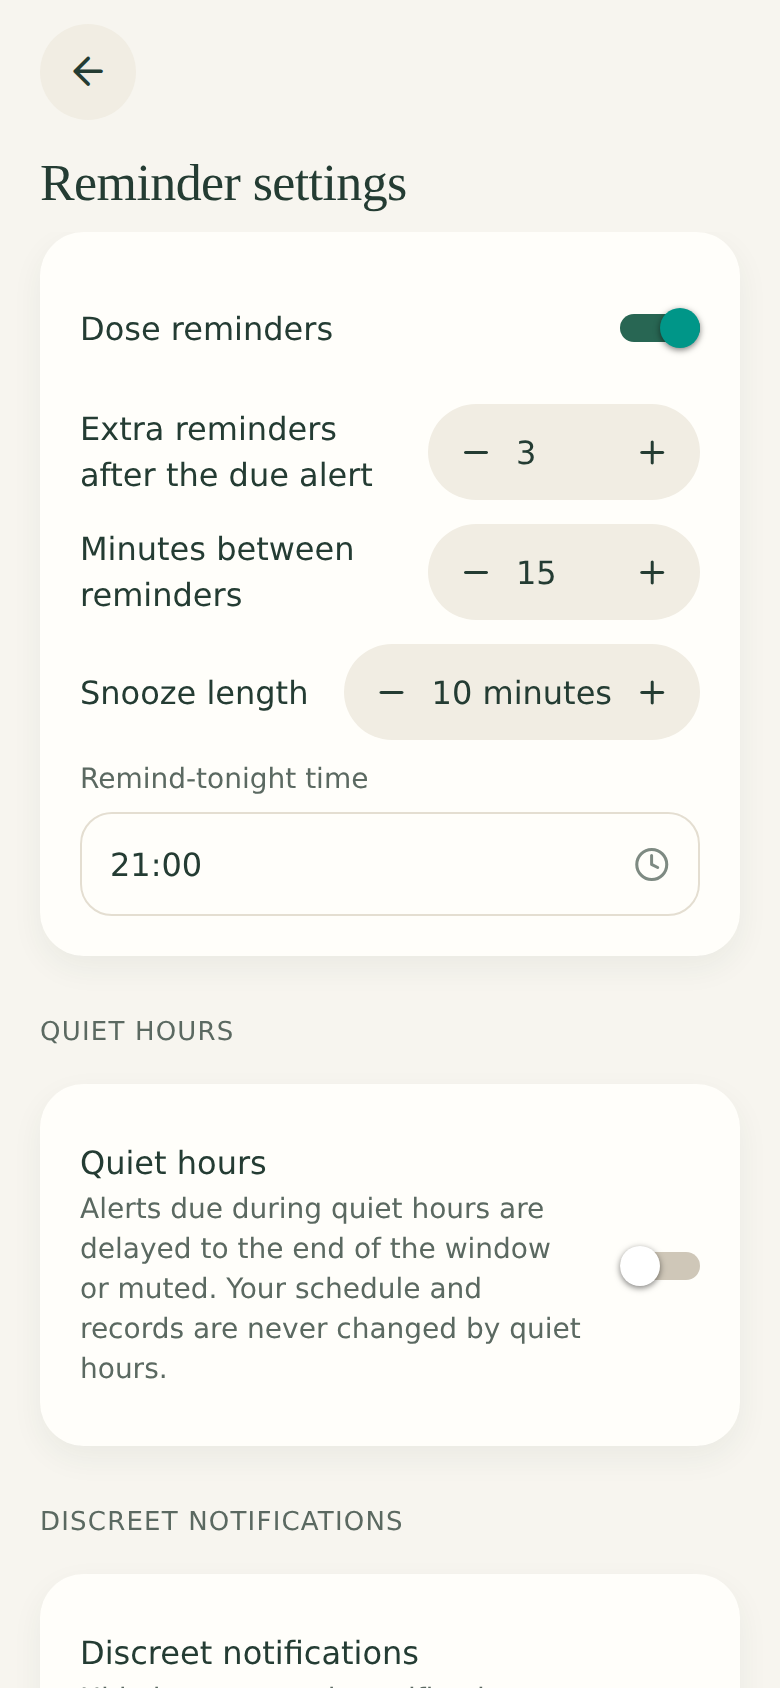
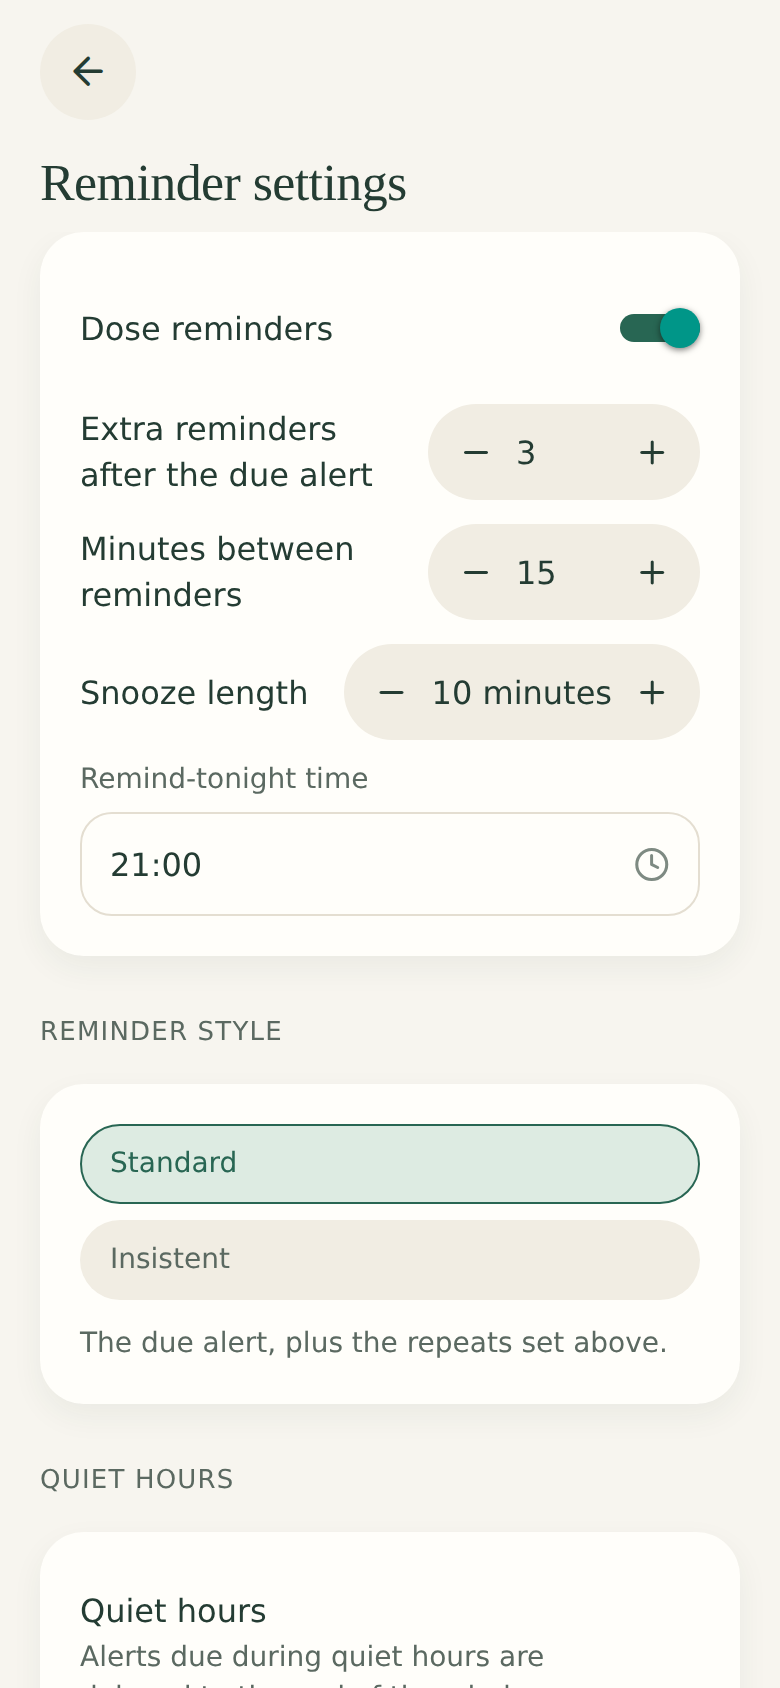
Add an insistent reminder style
A reminder that keeps pushing until the dose is dealt with, as the first
half of the alarm request. ReminderSettings.mode, overridable per
schedule, replaces the configured repeats with an alert every 2 minutes
up to 10 times, stopping the moment the occurrence becomes final. The
cap keeps one dose from consuming the whole pending budget, and the
settings screen hides the repeat controls that insistent mode ignores
rather than showing values that do nothing.

The field is optional; every reader treats a missing value as standard,
so records written before it keep their behaviour without a migration.

It is not an alarm and the UI says so: iOS silences it like any
notification when the ringer switch is off. docs/NOTIFICATIONS.md
records what a real alarm needs — AlarmKit on iOS 26+, which forces a
26.0 deployment target and an App Groups entitlement that only a paid
Apple Developer account can sign.

98 tests pass, tsc clean, walkthrough green with 0 console errors; it
now also asserts that insistent mode hides the controls it overrides.

Claude-Session: https://claude.ai/code/session_01Cq1v7tmhVZK29cBhSozy5b

diff --git a/rituvaya/app/settings/reminders.tsx b/rituvaya/app/settings/reminders.tsx
@@ -1,6 +1,6 @@
 import React from 'react';
 import { View } from 'react-native';
-import type { MissedPolicy, NotificationSound, QuietHours, ReminderSettings } from '@/domain/types';
+import type { MissedPolicy, NotificationSound, QuietHours, ReminderMode, ReminderSettings } from '@/domain/types';
 import { useI18n } from '@/i18n';
 import { formatDuration } from '@/i18n/format';
 import { useFormatContext, useSnapshot, useStore } from '@/state/context';
@@ -21,6 +21,7 @@ export default function ReminderSettingsScreen() {
   const format = useFormatContext();
   const snapshot = useSnapshot();
   const r = snapshot.settings.reminders;
+  const mode: ReminderMode = r.mode ?? 'standard';
   const missed = snapshot.settings.missed;
   const patch = (changes: Partial<ReminderSettings>) => void store.updateSettings((s) => ({ ...s, reminders: { ...s.reminders, ...changes } }));
   const patchQuiet = (changes: Partial<QuietHours>) => patch({ quietHours: { ...r.quietHours, ...changes } });
@@ -37,16 +38,33 @@ export default function ReminderSettingsScreen() {
     <Screen title={t('settings.reminders')} onBack={() => goBack()} testID="settings-reminders">
       <Card style={{ gap: theme.spacing.xs }}>
         <SwitchRow label={t('settings.remindersEnabled')} value={r.enabled} onChange={(v) => patch({ enabled: v })} />
-        <Row label={t('settings.repeatCount')}>
-          <Stepper value={r.repeatCount} min={0} max={6} onChange={(v) => patch({ repeatCount: v })} accessibilityLabel={t('settings.repeatCount')} />
-        </Row>
-        <Row label={t('settings.repeatInterval')}>
-          <Stepper value={r.repeatIntervalMinutes} min={5} max={120} step={5} onChange={(v) => patch({ repeatIntervalMinutes: v })} accessibilityLabel={t('settings.repeatInterval')} />
-        </Row>
+        {/* Insistent mode replaces these, so showing them would be a lie about what happens. */}
+        {mode === 'standard' ? (
+          <>
+            <Row label={t('settings.repeatCount')}>
+              <Stepper value={r.repeatCount} min={0} max={6} onChange={(v) => patch({ repeatCount: v })} accessibilityLabel={t('settings.repeatCount')} />
+            </Row>
+            <Row label={t('settings.repeatInterval')}>
+              <Stepper value={r.repeatIntervalMinutes} min={5} max={120} step={5} onChange={(v) => patch({ repeatIntervalMinutes: v })} accessibilityLabel={t('settings.repeatInterval')} />
+            </Row>
+          </>
+        ) : null}
         <Row label={t('settings.snooze')}>
           <Stepper value={r.snoozeMinutes} min={5} max={120} step={5} onChange={(v) => patch({ snoozeMinutes: v })} accessibilityLabel={t('settings.snooze')} format={(v) => formatDuration(v, language)} />
         </Row>
         <TimeField label={t('settings.remindTonight')} value={r.remindTonightTime} onChange={(v) => patch({ remindTonightTime: v })} format={format} />
+      </Card>
+
+      <SectionHeader title={t('settings.reminderMode')} />
+      <Card style={{ gap: theme.spacing.sm }}>
+        <View style={{ gap: 8 }}>
+          {(['standard', 'insistent'] as ReminderMode[]).map((value) => (
+            <Chip key={value} label={t(`settings.reminderModes.${value}` as const)} selected={mode === value} onPress={() => patch({ mode: value })} />
+          ))}
+        </View>
+        <Text variant="small" color="secondary">
+          {t(`settings.reminderModeHints.${mode}` as const)}
+        </Text>
       </Card>
 
       <SectionHeader title={t('settings.quietHours')} />

diff --git a/rituvaya/src/domain/__tests__/planner.test.ts b/rituvaya/src/domain/__tests__/planner.test.ts
@@ -1,4 +1,4 @@
-import { applyQuietHours, planNotifications, reconcile, remindTonightAt } from '../notifications/planner';
+import { INSISTENT_REPEAT_COUNT, INSISTENT_REPEAT_INTERVAL_MINUTES, applyQuietHours, planNotifications, reconcile, remindTonightAt, repeatPlanFor } from '../notifications/planner';
 import { buildView } from '../logging/status';
 import { setDeviceTimeZone } from '../time/clock';
 import type { Occurrence, QuietHours, ReminderConfig } from '../types';
@@ -121,5 +121,44 @@ describe('notification planner', () => {
     expect(remindTonightAt(morning, tz, '21:00')).toEqual({ at: Date.UTC(2026, 8, 20, 21, 0), usedFallback: false });
     const late = Date.UTC(2026, 8, 20, 21, 30);
     expect(remindTonightAt(late, tz, '21:00')).toEqual({ at: late + 60 * minute, usedFallback: true });
+  });
+});
+
+describe('insistent reminders', () => {
+  const now = Date.UTC(2026, 8, 20, 7, 0);
+  const insistent: ReminderConfig = { ...reminders, mode: 'insistent' };
+
+  it('replaces the configured repeats rather than adding to them', () => {
+    expect(repeatPlanFor(reminders)).toEqual({ count: 3, intervalMinutes: 15 });
+    expect(repeatPlanFor(insistent)).toEqual({ count: INSISTENT_REPEAT_COUNT, intervalMinutes: INSISTENT_REPEAT_INTERVAL_MINUTES });
+    // A config that asks for one lazy repeat still gets the full insistent run.
+    expect(repeatPlanFor({ ...insistent, repeatCount: 1, repeatIntervalMinutes: 60 })).toEqual(repeatPlanFor(insistent));
+  });
+
+  it('treats a missing mode as standard, so records saved before it keep their behaviour', () => {
+    const { mode, ...withoutMode } = insistent;
+    expect(mode).toBe('insistent');
+    expect(repeatPlanFor(withoutMode)).toEqual(repeatPlanFor(reminders));
+  });
+
+  it('alerts every two minutes until the dose is resolved', () => {
+    const view = buildView(occ('a', 8 * 60), null, null, now, policy);
+    const plan = planNotifications({ now, tz, horizonMs: 7 * 86_400_000, budget: 60, doses: [{ view, reminders: insistent }], quietHours: quietOff, hydration: null });
+    expect(plan.map((n) => (n.fireAt - view.occurrence.scheduledAt) / minute)).toEqual([0, 2, 4, 6, 8, 10, 12, 14, 16, 18, 20]);
+  });
+
+  it('stops once the dose is final, so acting on it silences the rest', () => {
+    const takenLog = { id: 'l', itemId: 'a', occurrenceKey: occ('a', 8 * 60).key, action: 'taken' as const, at: now, localDate: '2026-09-20', tz, amount: null, unit: null, reason: null, note: null, scheduledAt: null, itemNameSnapshot: '', doseSnapshot: '', source: 'app' as const, createdAt: now, updatedAt: now, deletedAt: null };
+    const view = buildView(occ('a', 8 * 60), takenLog, null, now, policy);
+    const plan = planNotifications({ now, tz, horizonMs: 7 * 86_400_000, budget: 60, doses: [{ view, reminders: insistent }], quietHours: quietOff, hydration: null });
+    expect(plan).toHaveLength(0);
+  });
+
+  it('cannot starve other items of the pending-notification budget', () => {
+    const a = buildView(occ('a', 8 * 60), null, null, now, policy);
+    const b = buildView(occ('b', 9 * 60), null, null, now, policy);
+    const plan = planNotifications({ now, tz, horizonMs: 7 * 86_400_000, budget: 12, doses: [{ view: a, reminders: insistent }, { view: b, reminders: insistent }], quietHours: quietOff, hydration: null });
+    expect(plan).toHaveLength(12);
+    expect(plan.some((n) => n.itemIds.includes('b'))).toBe(true);
   });
 });

diff --git a/rituvaya/src/domain/notifications/planner.ts b/rituvaya/src/domain/notifications/planner.ts
@@ -20,6 +20,25 @@ export interface DoseAlertSource {
   reminders: ReminderConfig;
 }
 
+/**
+ * Insistent reminders replace the configured repeats rather than adding to them:
+ * often enough to be hard to sleep through, capped so a single dose cannot eat
+ * the whole pending-notification budget.
+ */
+export const INSISTENT_REPEAT_COUNT = 10;
+export const INSISTENT_REPEAT_INTERVAL_MINUTES = 2;
+
+/** The repeats a reminder config asks for, resolved through its mode. */
+export function repeatPlanFor(reminders: ReminderConfig): { count: number; intervalMinutes: number } {
+  if (reminders.mode === 'insistent') {
+    return { count: INSISTENT_REPEAT_COUNT, intervalMinutes: INSISTENT_REPEAT_INTERVAL_MINUTES };
+  }
+  return {
+    count: Math.max(0, Math.min(10, Math.floor(reminders.repeatCount))),
+    intervalMinutes: Math.max(1, reminders.repeatIntervalMinutes),
+  };
+}
+
 export interface HydrationPlan {
   enabled: boolean;
   intervalMinutes: number;
@@ -76,8 +95,8 @@ function alertsForDose(source: DoseAlertSource, input: PlannerInput): RawAlert[]
     base.push(state.snoozedUntil);
     repeatIndexes = [-1];
   } else if (source.reminders.enabled) {
-    const count = Math.max(0, Math.min(10, Math.floor(source.reminders.repeatCount)));
-    const interval = Math.max(1, source.reminders.repeatIntervalMinutes) * 60_000;
+    const { count, intervalMinutes } = repeatPlanFor(source.reminders);
+    const interval = intervalMinutes * 60_000;
     for (let k = 0; k <= count; k += 1) {
       base.push(view.occurrence.scheduledAt + k * interval);
       repeatIndexes.push(k);

diff --git a/rituvaya/src/domain/types.ts b/rituvaya/src/domain/types.ts
@@ -63,11 +63,21 @@ export type Recurrence =
   | { type: 'cycle'; onDays: number; offDays: number }
   | { type: 'asNeeded' };
 
+/**
+ * How hard a reminder pushes. `insistent` ignores the repeat fields and alerts
+ * every couple of minutes until the dose is resolved, for doses that must not be
+ * slept through. It is still a notification: iOS silences it like any other when
+ * the ringer switch is off, so it is not an alarm and must not be labelled as one.
+ */
+export type ReminderMode = 'standard' | 'insistent';
+
 export interface ReminderConfig {
   enabled: boolean;
   /** Extra alerts after the due alert. */
   repeatCount: number;
   repeatIntervalMinutes: number;
+  /** Absent on records written before this existed; read it as 'standard'. */
+  mode?: ReminderMode;
 }
 
 export interface Schedule {
@@ -165,6 +175,8 @@ export interface ReminderSettings {
   enabled: boolean;
   repeatCount: number;
   repeatIntervalMinutes: number;
+  /** Default for every item; a schedule may override it. */
+  mode?: ReminderMode;
   snoozeMinutes: number;
   remindTonightTime: TimeOfDay;
   quietHours: QuietHours;

diff --git a/rituvaya/src/i18n/translations/ar.ts b/rituvaya/src/i18n/translations/ar.ts
@@ -563,6 +563,9 @@ export const ar: Translation = {
     remindersEnabled: 'تذكيرات الجرعات',
     repeatCount: 'تذكيرات إضافية بعد تنبيه الموعد',
     repeatInterval: 'الدقائق بين التذكيرات',
+    reminderMode: 'أسلوب التذكير',
+    reminderModes: { standard: 'عادي', insistent: 'مُلِحّ' },
+    reminderModeHints: { standard: 'تنبيه الاستحقاق، مع التكرارات المحددة أعلاه.', insistent: 'تنبيه كل دقيقتين، حتى 10 مرات، إلى أن تسجّل الجرعة كمأخوذة أو متخطاة. كأي إشعار يبقى صامتًا عندما يكون مفتاح الرنين مغلقًا، لذا فهو ليس منبّهًا.' },
     snooze: 'مدة التأجيل',
     remindTonight: 'وقت «ذكّرني الليلة»',
     quietHours: 'ساعات الهدوء',

diff --git a/rituvaya/scripts/screenshots.js b/rituvaya/scripts/screenshots.js
@@ -186,6 +186,16 @@ async function main() {
   await click('Reminder settings');
   await page.waitForTimeout(500);
   await shot('21b-reminder-settings');
+  // Insistent mode hides the repeat controls it overrides, and says plainly that
+  // it is still a notification rather than an alarm.
+  await click('Insistent');
+  await page.waitForTimeout(700);
+  if (await page.getByText('Minutes between reminders', { exact: true }).first().isVisible().catch(() => false)) {
+    errors.push('reminders: insistent mode still shows the repeat controls it ignores');
+  }
+  await shot('21b2-reminder-insistent');
+  await click('Standard');
+  await page.waitForTimeout(500);
   await clickLocator(page.getByRole('button', { name: 'Go back' }).last());
   await page.waitForTimeout(300);
   await click('Notification status');

diff --git a/rituvaya/src/domain/services/queries.ts b/rituvaya/src/domain/services/queries.ts
@@ -157,7 +157,12 @@ export function computeStreaks(state: DataState, idx: Indexes, today: LocalDate,
 }
 
 export function remindersFor(schedule: Schedule | undefined, settings: Settings): ReminderConfig {
-  const base: ReminderConfig = { enabled: settings.reminders.enabled, repeatCount: settings.reminders.repeatCount, repeatIntervalMinutes: settings.reminders.repeatIntervalMinutes };
+  const base: ReminderConfig = {
+    enabled: settings.reminders.enabled,
+    repeatCount: settings.reminders.repeatCount,
+    repeatIntervalMinutes: settings.reminders.repeatIntervalMinutes,
+    mode: settings.reminders.mode ?? 'standard',
+  };
   if (!schedule?.reminders) return base;
   return { ...base, ...schedule.reminders, enabled: settings.reminders.enabled && schedule.reminders.enabled };
 }

diff --git a/rituvaya/src/i18n/translations/de.ts b/rituvaya/src/i18n/translations/de.ts
@@ -563,6 +563,9 @@ export const de: Translation = {
     remindersEnabled: 'Einnahme-Erinnerungen',
     repeatCount: 'Zusätzliche Erinnerungen nach dem Fälligkeitshinweis',
     repeatInterval: 'Minuten zwischen Erinnerungen',
+    reminderMode: 'Erinnerungsart',
+    reminderModes: { standard: 'Standard', insistent: 'Beharrlich' },
+    reminderModeHints: { standard: 'Der Hinweis zur fälligen Zeit, plus die oben eingestellten Wiederholungen.', insistent: 'Meldet sich alle 2 Minuten, bis zu 10-mal, bis du die Dosis als genommen oder ausgelassen markierst. Wie jede Mitteilung bleibt sie stumm, wenn der Klingelschalter aus ist — ein Wecker ist sie also nicht.' },
     snooze: 'Dauer von „Später“',
     remindTonight: 'Zeit für „Heute Abend“',
     quietHours: 'Ruhezeiten',

diff --git a/rituvaya/src/i18n/translations/es.ts b/rituvaya/src/i18n/translations/es.ts
@@ -563,6 +563,9 @@ export const es: Translation = {
     remindersEnabled: 'Recordatorios de tomas',
     repeatCount: 'Recordatorios adicionales tras el aviso',
     repeatInterval: 'Minutos entre recordatorios',
+    reminderMode: 'Estilo de recordatorio',
+    reminderModes: { standard: 'Estándar', insistent: 'Insistente' },
+    reminderModeHints: { standard: 'El aviso a la hora prevista, más las repeticiones configuradas arriba.', insistent: 'Avisa cada 2 minutos, hasta 10 veces, hasta que marques la dosis como tomada u omitida. Como cualquier notificación, permanece en silencio si el interruptor de sonido está apagado, así que no es una alarma.' },
     snooze: 'Duración de posponer',
     remindTonight: 'Hora del recordatorio nocturno',
     quietHours: 'Horas de silencio',

diff --git a/rituvaya/src/i18n/translations/fr.ts b/rituvaya/src/i18n/translations/fr.ts
@@ -563,6 +563,9 @@ export const fr: Translation = {
     remindersEnabled: 'Rappels de prise',
     repeatCount: 'Rappels supplémentaires après l’alerte',
     repeatInterval: 'Minutes entre les rappels',
+    reminderMode: 'Style de rappel',
+    reminderModes: { standard: 'Standard', insistent: 'Insistant' },
+    reminderModeHints: { standard: 'L alerte à l heure prévue, plus les répétitions réglées ci-dessus.', insistent: 'Une alerte toutes les 2 minutes, jusqu à 10 fois, jusqu à ce que vous marquiez la prise ou l oubli. Comme toute notification, elle reste silencieuse quand le bouton de sonnerie est coupé : ce n est donc pas une alarme.' },
     snooze: 'Durée du report',
     remindTonight: 'Heure du rappel du soir',
     quietHours: 'Heures calmes',

diff --git a/rituvaya/src/i18n/translations/en.ts b/rituvaya/src/i18n/translations/en.ts
@@ -565,6 +565,9 @@ export const en = {
     remindersEnabled: 'Dose reminders',
     repeatCount: 'Extra reminders after the due alert',
     repeatInterval: 'Minutes between reminders',
+    reminderMode: 'Reminder style',
+    reminderModes: { standard: 'Standard', insistent: 'Insistent' },
+    reminderModeHints: { standard: 'The due alert, plus the repeats set above.', insistent: 'Alerts every 2 minutes, up to 10 times, until you mark the dose taken or skipped. Like any notification it stays silent when your ringer switch is off, so it is not an alarm.' },
     snooze: 'Snooze length',
     remindTonight: 'Remind-tonight time',
     quietHours: 'Quiet hours',

diff --git a/rituvaya/src/domain/defaults.ts b/rituvaya/src/domain/defaults.ts
@@ -22,6 +22,7 @@ export function defaultSettings(today: string, tz: string): Settings {
       enabled: true,
       repeatCount: 3,
       repeatIntervalMinutes: 15,
+      mode: 'standard',
       snoozeMinutes: 10,
       remindTonightTime: '21:00',
       quietHours: { enabled: false, start: '22:00', end: '07:00', mode: 'delay' },
